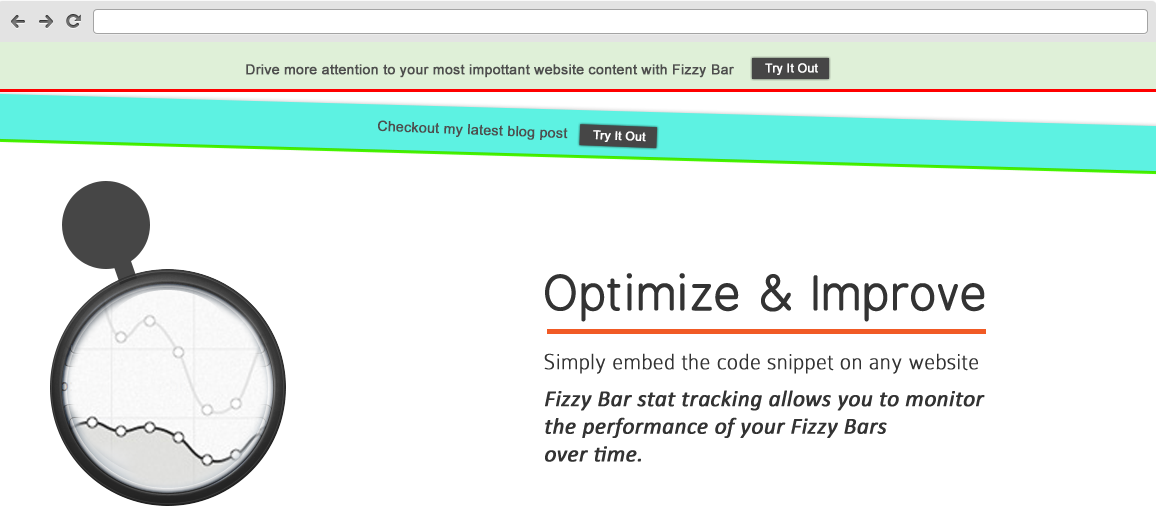
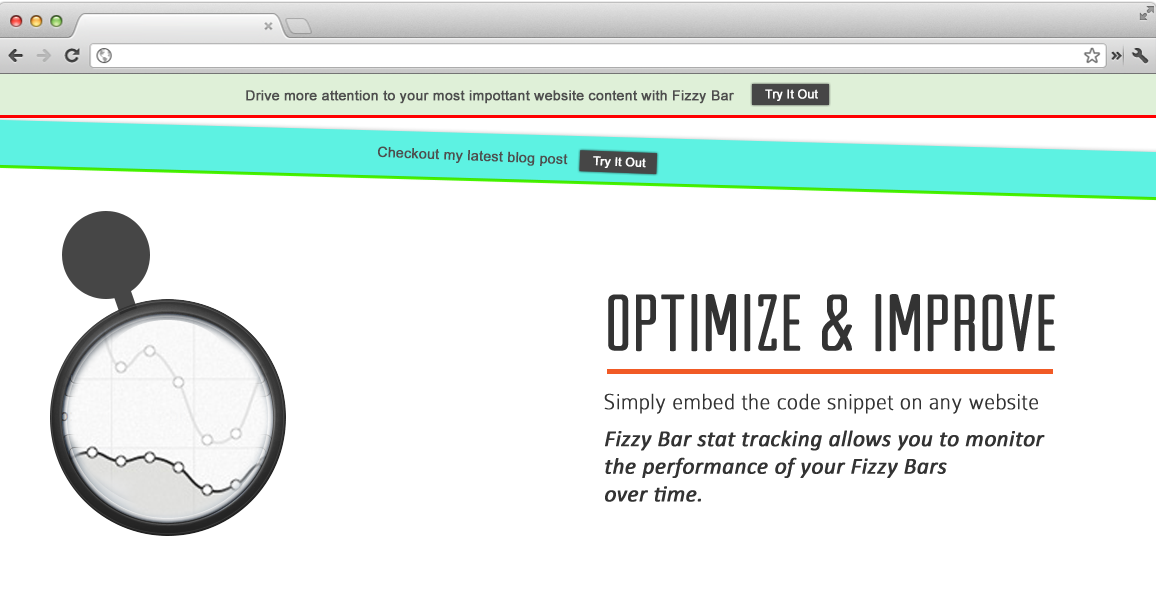
minir changes

diff --git a/app/assets/stylesheets/bootstrap_and_overrides.css.less b/app/assets/stylesheets/bootstrap_and_overrides.css.less
@@ -1,15 +1,7 @@
 @import "twitter/bootstrap/bootstrap";
 body {
 	padding-top: 60px;
-	/*background: #FAFAFA;*/
-	background: #e8fff7; /* Old browsers */
-background: -moz-linear-gradient(top,  #e8fff7 0%, #fafafa 46%, #e8fff7 100%); /* FF3.6+ */
-background: -webkit-gradient(linear, left top, left bottom, color-stop(0%,#e8fff7), color-stop(46%,#fafafa), color-stop(100%,#e8fff7)); /* Chrome,Safari4+ */
-background: -webkit-linear-gradient(top,  #e8fff7 0%,#fafafa 46%,#e8fff7 100%); /* Chrome10+,Safari5.1+ */
-background: -o-linear-gradient(top,  #e8fff7 0%,#fafafa 46%,#e8fff7 100%); /* Opera 11.10+ */
-background: -ms-linear-gradient(top,  #e8fff7 0%,#fafafa 46%,#e8fff7 100%); /* IE10+ */
-background: linear-gradient(to bottom,  #e8fff7 0%,#fafafa 46%,#e8fff7 100%); /* W3C */
-filter: progid:DXImageTransform.Microsoft.gradient( startColorstr='#e8fff7', endColorstr='#e8fff7',GradientType=0 ); /* IE6-9 */
+	background: #fff; 
 
 }
 
@@ -252,10 +244,14 @@ h1{
 			background: url("/assets/login_register_facebook.png") no-repeat 0 -447px;
 		}
 	}
+	.form_margin{
+		margin: 0;
+	}
 }/* signin_container */
 .header_background_color{
 	background: #444;
-	border-bottom: 5px solid #fff;
+	border-bottom: 5px solid #309eeb;
+	border-width: 0 0 3px 0!important;
 	a{
 		color: #fff!important;
 		&:hover{
@@ -268,6 +264,7 @@ h1{
 	background: @background;
 	padding: 20px;
 	border: 1px solid #bbb;
+	height: 535px;
 	.showdetails_leftcontainer{
 		float: left;
 		padding: 15px;
@@ -345,7 +342,7 @@ h1{
 				box-shadow: @box_shadow;
 			}
 			.stats_cols_padding{
-				padding: 5px 5px 0 37px;
+				padding: 10px 5px 0 37px;
 			}
 			.stats_visit_cols_padding{
 				padding-top: 5px;
